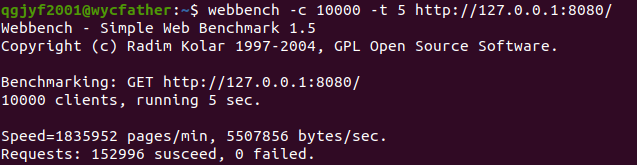
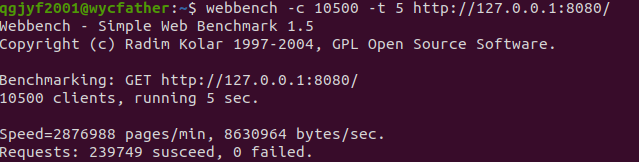
更新压力测试

Changed region(s): [[0.0, 0.0, 0.9843, 0.3395], [0.0, 0.7716, 0.6264, 0.9877], [0.0, 0.4321, 0.5667, 0.6481]]

diff --git a/threadPool/threadPool.cpp b/threadPool/threadPool.cpp
@@ -36,7 +36,7 @@ std::thread* threadPool::threadLoop(int _num)
 }
 void threadPool::addThread(std::function<void(void*)>function,void *arg)
 {
-    while (availableThread.empty());
+    while (availableThread.size()==0);
     int now=availableThread.pop();
     args[now]=arg;
     f[now]=function;
@@ -44,10 +44,7 @@ void threadPool::addThread(std::function<void(void*)>function,void *arg)
 }
 void threadPool::waitAll()
 {
-    for (int i=0;i<threadNum;i++)
-        finished[i]->lock();
-    for (int i=0;i<threadNum;i++)
-        finished[i]->unlock();
+    while (availableThread.size()!=threadNum);
 }
 threadPool::~threadPool()
 {

diff --git a/tcp/tcpServer.cpp b/tcp/tcpServer.cpp
@@ -38,6 +38,7 @@ void poolServer::startForever()
     clientfd[0].events=POLLIN;
     clientfd[0].revents=0;
     int totfd=0;
+    int cnt=0;
     while (true)
     {
         auto nready=poll(clientfd,totfd+1,-1);
@@ -87,7 +88,8 @@ void poolServer::startForever()
                     httpServer.doHttp(&clientfd[i].fd,std::string(buf,n),[](int* sockfd){
                             close(*sockfd);
                             *sockfd=-1;
-                    });                    
+                    });           
+                       
                 }
             }
             httpServer.waitAll();
